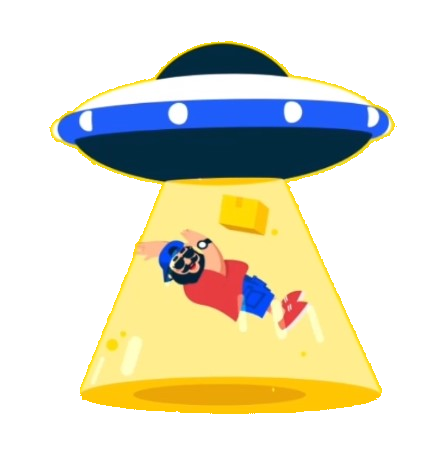
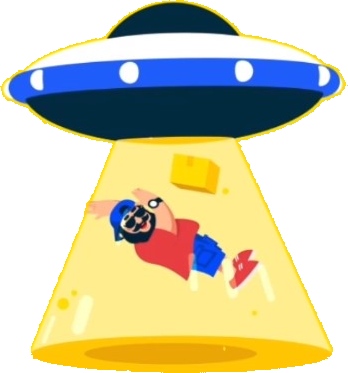
main wrapper enlarged

diff --git a/style.css b/style.css
@@ -10,7 +10,7 @@ a {
   text-decoration: none;
   color: #01243f;
   text-transform: uppercase;
-  font-size: 10px;
+  font-size: 12px;
   font-weight: bold;
 }
 
@@ -19,15 +19,16 @@ body {
 }
 
   body > div {
-    width: 900px;
-    margin-left: calc( (100% - 900px) / 2);
+    display: inline-block;
+    width: 1200px;
+    margin-left: calc( (100% - 1200px) / 2);
+    margin-top: 20px;
   }
 
   header {
     width: 100%;
     height: 60px;
     padding: 15px;
-    /* background-color: whitesmoke; */
     margin-top: 5px;
   }
 
@@ -35,7 +36,6 @@ body {
       float: left;
       width: 20%;
       color: #01243f;
-      /* background-color: wheat; */
       text-align: center;
       line-height: 30px;
     }
@@ -43,12 +43,9 @@ body {
     nav {
       float: left;
       width: 40%;
-      /* background-color: turquoise; */
     }
       nav > a {
-        /* display: inline-block; */
         padding: 0 12px;
-        /* background-color: violet; */
         float: left;
         margin-left: 5px;
         line-height: 30px;
@@ -58,50 +55,53 @@ body {
       width: 20%;
       text-align: center;
       color: #d47618;
-      /* background-color: thistle; */
       line-height: 30px;
     }
 
-  div > div {
-    float: left;
-    width: 30%;
-    margin-left: 15%;
-    margin-top: 80px;
-    text-align: left;
-  }
-
-    h1 {
-      width: 100%;
-      font-size: 100px;
-      color: #01243f;
-      line-height: 0;
+  main {
+    display: inline-block;
+    margin-top: 70px;
+    margin-left: 200px;
+    width: 800px;
     }
 
-    div > h2 {
-      width: 100%;
-      color: #ffffff;
-      margin-bottom: 50px;
-      margin-top: 45px;
-      font-size: 34px;
+    main > div {
+      float: left;
+      width: 400px;
+      text-align: left;
+      margin-right: 50px;
     }
 
-    p {
-      width: 100%;
-      font-size: 12px;
-      margin-bottom: 30px;
-    }
+      h1 {
+        width: 100%;
+        font-size: 120px;
+        color: #01243f;
+        line-height: 1em;
+      }
 
-    div > a {
-      width: 100%;
-      background-color: #01243d;
-      color: white;
-      padding: 10px 40px;
-      font-weight: lighter;
-    }
+      div > h2 {
+        width: 100%;
+        color: #ffffff;
+        margin-bottom: 80px;
+        line-height: 1em;
+        font-size: 50px;
+      }
 
-  img {
-    float: left;
-    width: 35%;
-    margin-top: 30px;
-    margin-left: 50px;
-  }
+      p {
+        width: 100%;
+        font-size: 14px;
+        margin-bottom: 40px;
+      }
+
+      div > a {
+        width: 100%;
+        background-color: #01243d;
+        color: white;
+        padding: 10px 40px;
+        font-weight: lighter;
+      }
+
+    img {
+      float: left;
+      width: 350px;
+    }

diff --git a/index.html b/index.html
@@ -20,17 +20,17 @@
             </nav>
             <a href="#">Request a quote</a>
         </header>
-
-        <div>
-            <h1>404</h1>
-            <h2>Page not found</h2>
-            <p>Lorem ipsum dolor, sit amet Lorem ipsum dolor, sit amet consectetur adipisicing.Lorem ipsum dolor sit
-                amet
-                consectetur.consectetur adipisicing elit. Eveniet alias praesentium exercitationem?</p>
-            <a href="#">Back to homepage</a>
-        </div>
-
-        <img src="./spaceship.png" alt="spaceship">
+        <main>
+            <div>
+                <h1>404</h1>
+                <h2>Page not found</h2>
+                <p>Lorem ipsum dolor, sit amet Lorem ipsum dolor, sit amet consectetur adipisicing.Lorem ipsum dolor sit
+                    amet
+                    consectetur.consectetur adipisicing elit. Eveniet alias praesentium exercitationem?</p>
+                <a href="#">Back to homepage</a>
+            </div>
+            <img src="./spaceship.png" alt="spaceship">
+        </main>
     </div>
 </body>
 
